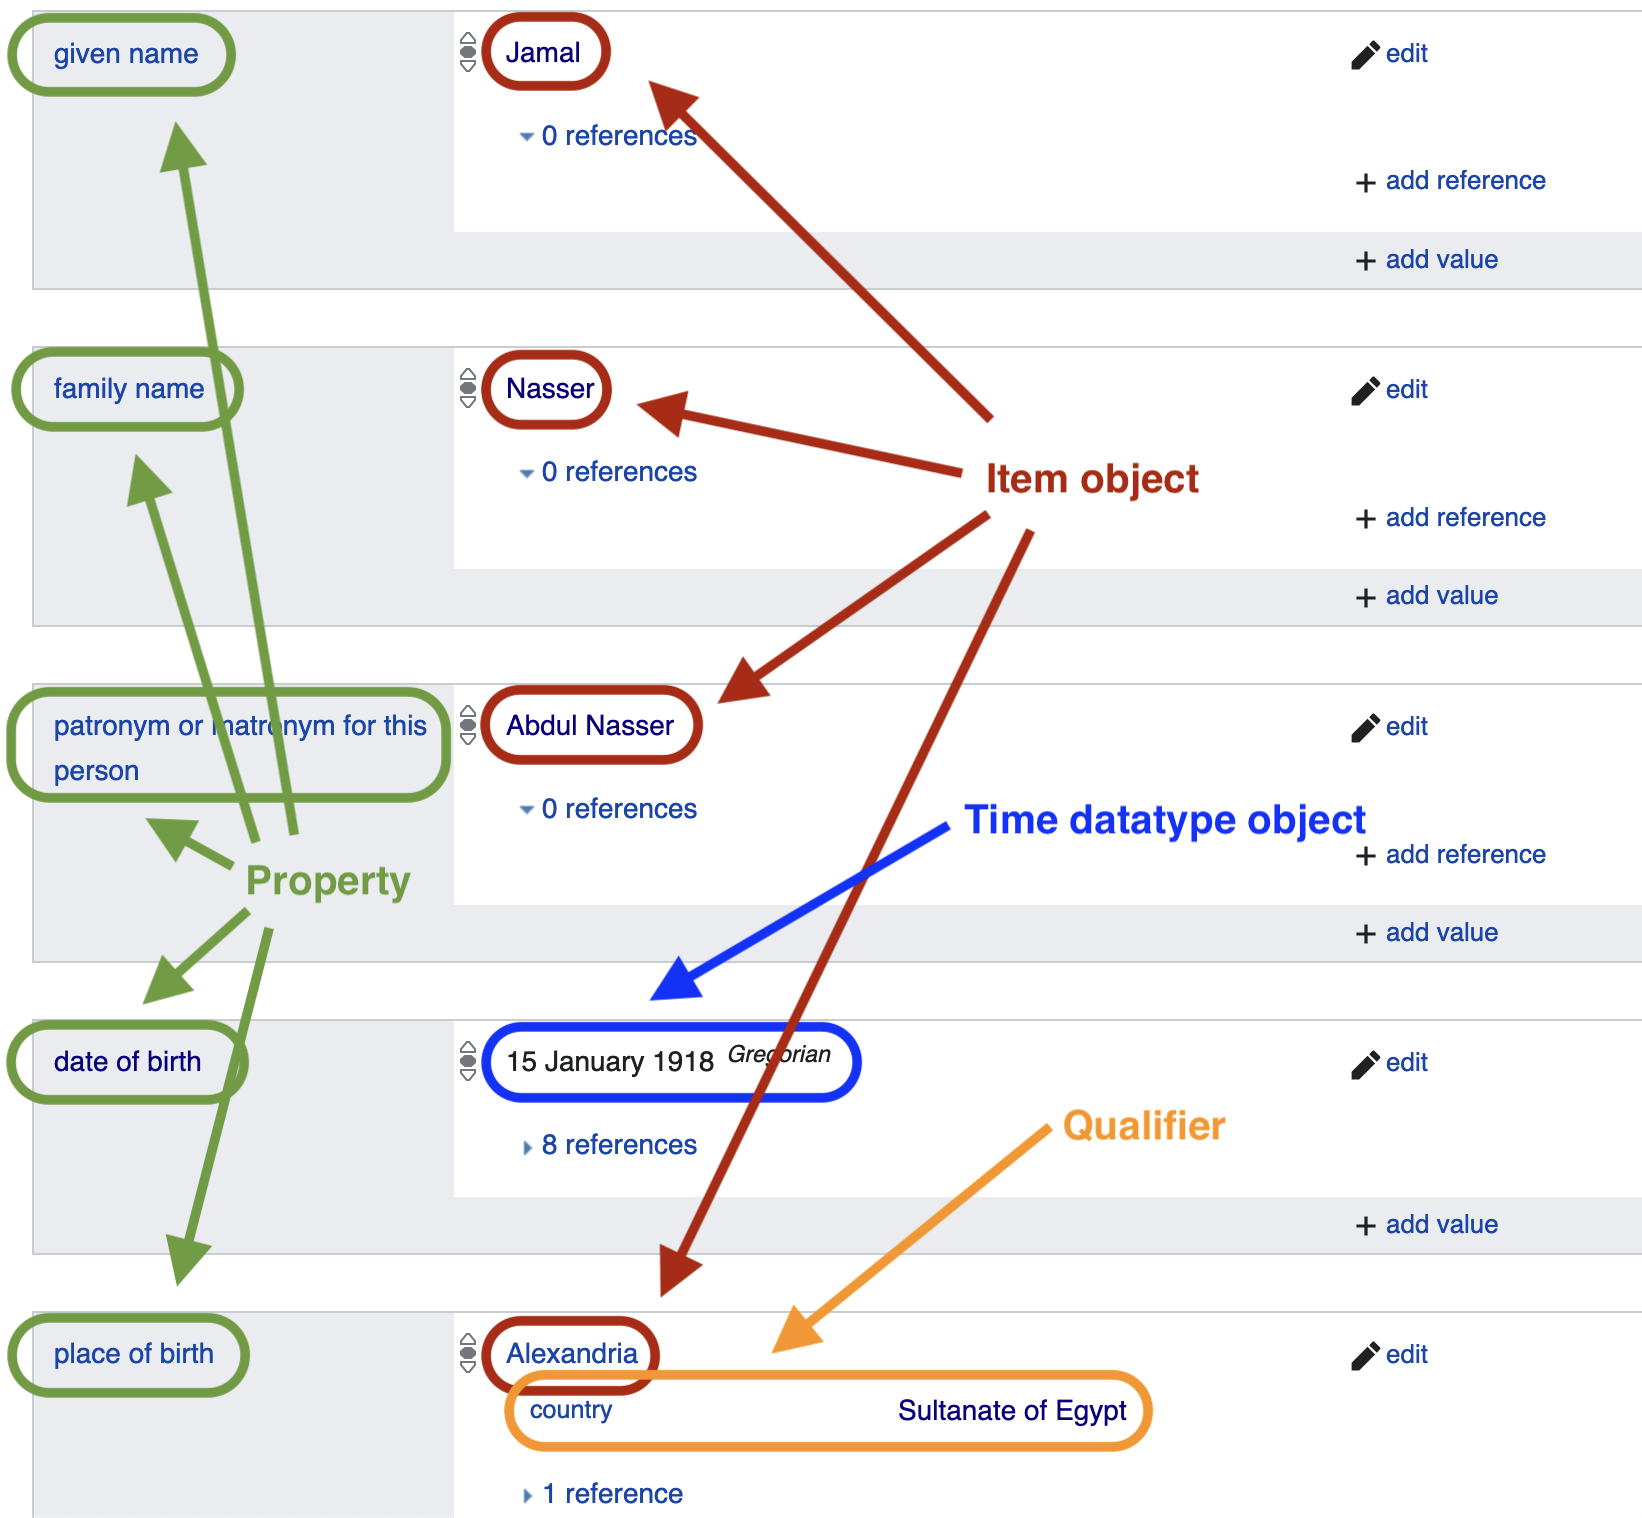
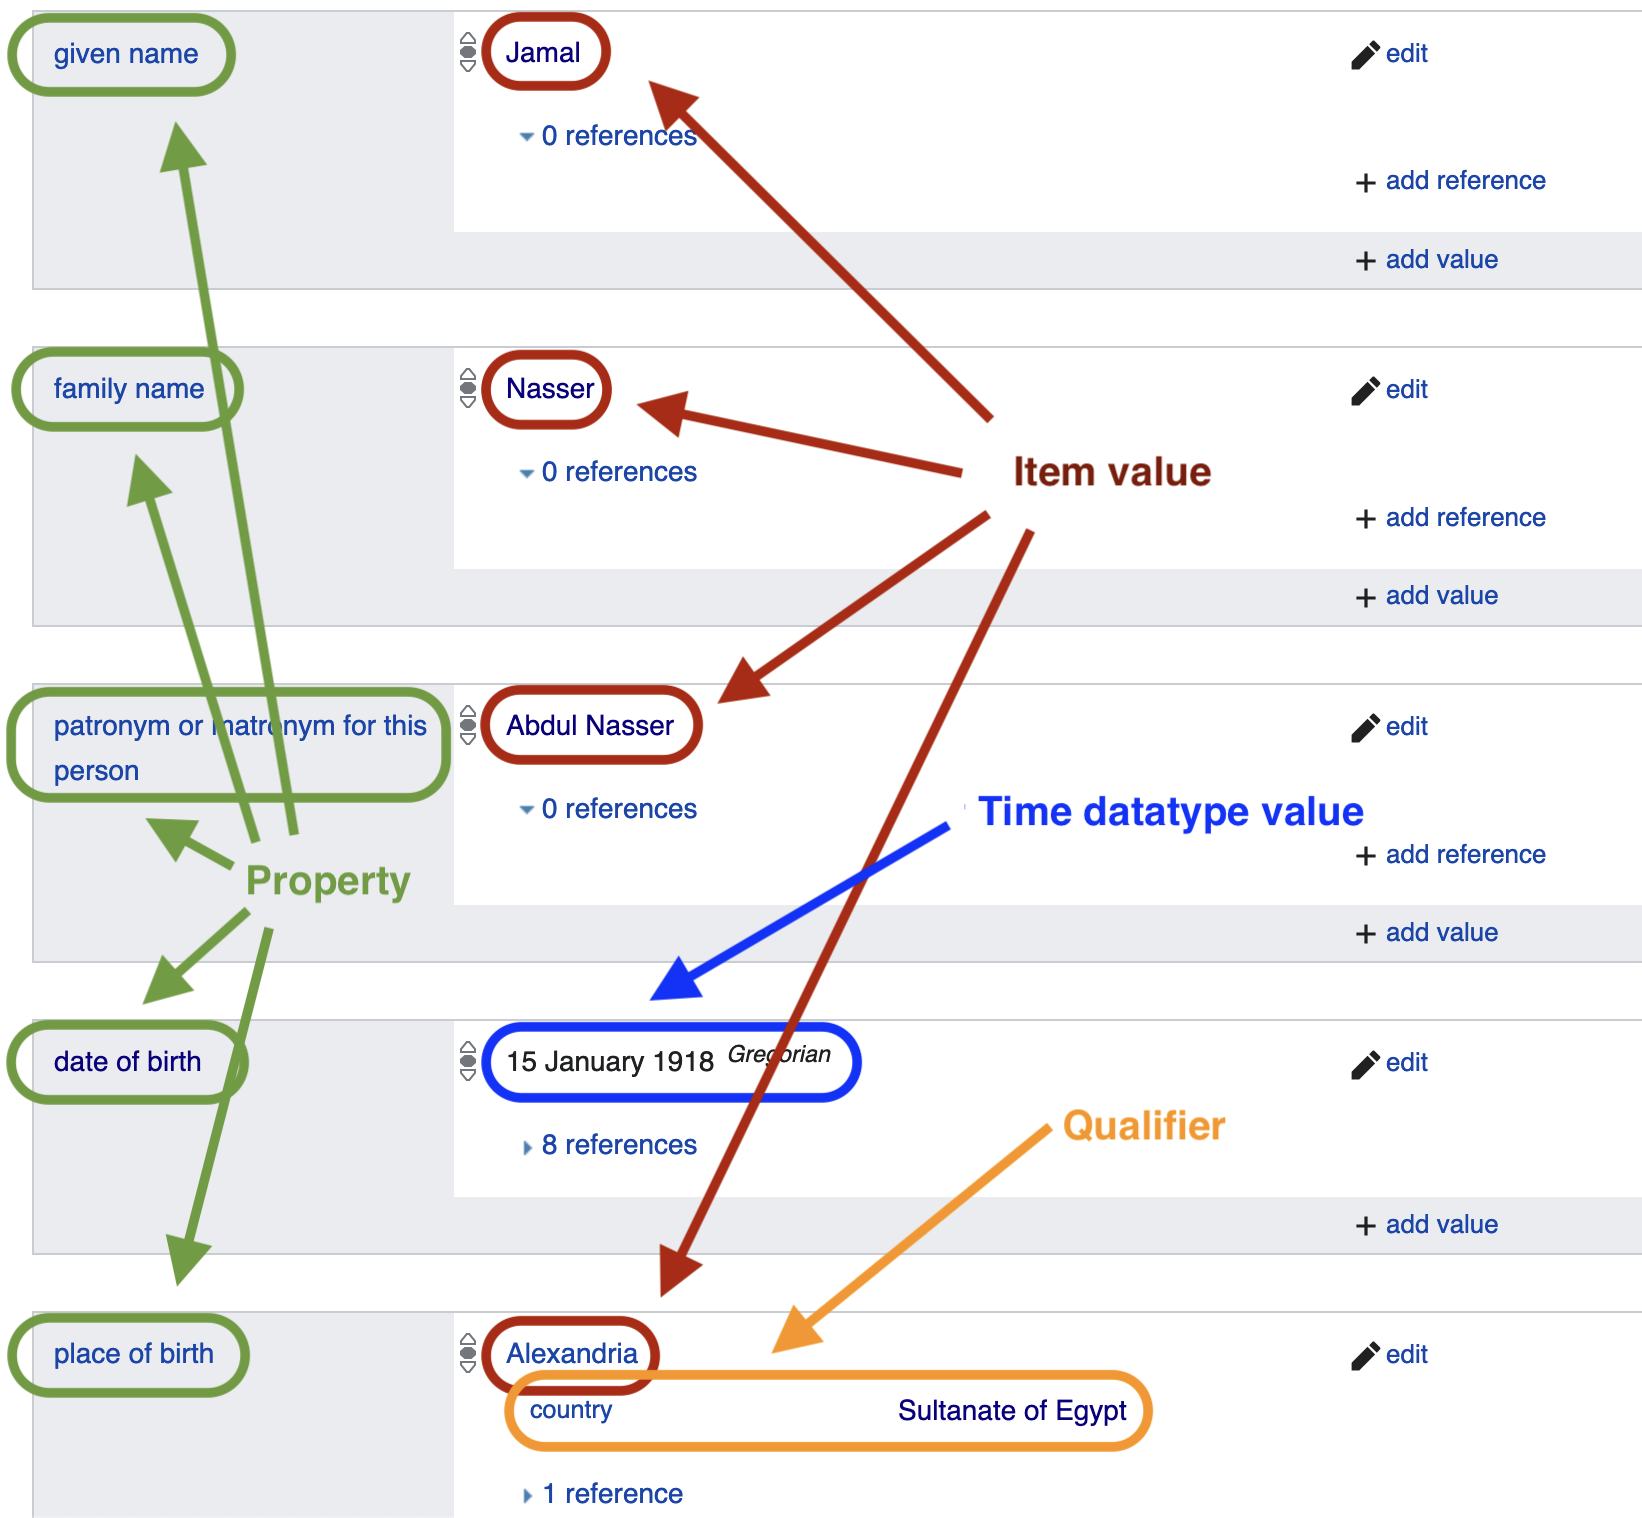
new lesson drafts

Changed region(s): [[0.5901, 0.5264, 0.8386, 0.5573], [0.5901, 0.2787, 0.7454, 0.3406]]

diff --git a/wikidata-for-historians/wikidata-for-historians.md b/wikidata-for-historians/wikidata-for-historians.md
@@ -44,7 +44,7 @@ Even further down, you'll find another section with the heading **Identifiers**.
 
 Most historians--particularly those with some background in postcolonial theory--might readily identify the value in distinguishing between the signifier and the signified. In the Wikidata knowledge base, the signfied are only ever numbers; everything else is a signifier. This distinction means that the relationships between items do not depend on arbitrary human semantic choices. Wikidata can use multiple terms for the same idea, and those terms can change, without breaking the database.
 
-Wikidata also uses P-numbers, which refer to **properties**. In the "Statements" section, you will note two columns. The first column (with a grey field) contains properties. The second column (with a white field) contains items or values that answer these properties (sometimes these are called "objects" of properties). This lesson is not the place to get bogged down in the complexities of data structures. Instead, employ a common sense reading of those properties that make sense to you.
+Wikidata also uses P-numbers, which refer to **properties**. In the "Statements" section, you will note two columns. The first column (with a grey field) contains properties. The second column (with a white field) contains values that answer these properties (sometimes these are called "objects" of properties). These values may be items, or dates, or strings, or other datatypes. This lesson is not the place to get bogged down in the [complexities of data models](https://www.wikidata.org/wiki/Wikidata:Data_model). Instead, as you begin to explore Wikidata, employ a common sense reading of those properties that make sense to you.
 
 ![Figure 3: Properties and objects in statements](statements-properties.png)
 
@@ -73,7 +73,7 @@ This incompleteness is a function of two features of the knowledge base. First, 
 
 However, we only have one reference for the date when he assumed the Prime Minister's office. That reference is to the [list of Egyptian Prime Ministers in English Wikipedia](https://en.wikipedia.org/wiki/List_of_prime_ministers_of_Egypt)–which could itself be scrutinized for accuracy and conpleteness. Generally speaking, at this point in its development, Wikidata's references are relatively poor in quality and quantity. However, in many cases, we can reasonably assume that factual information in Wikidata will typically be accurate for purposes of data exploration and hypothesis testing. Our historian's judgment will serve us well when we look at the evidence more closely.
 
-A second (and more interesting) reason for incomplete query results concerns the structure of knowledge that Wikidata produces, and this issue warrants a section of its own. 
+A second (and more interesting) reason for incomplete query results concerns the structure of knowledge that Wikidata produces. Briefly put, Wikidata must be queried using its own (often idiosyncratic) terms and categories. You must understand its taxonomies in order to use it effectively, and this issue warrants a section of its own. 
 
 ## Key vocabulary:
 - item
@@ -94,7 +94,7 @@ Keen-eyed observers will already detect the presence of a formal taxonomy here. 
 
 Confronted with this mass of examples, you might feel somewhat confused, both by particular instances and by the overall picture. This empirically-generated account is a long way from the synthetic statements of Wikipedia. Such ambiguous bodies of results embody the virtue and value of Wikidata for historians. It is not an automatic answer box. It is an elaborate logical structure giving precise answers to abstract questions about which there is no real consensus. Any serious user learn which taxonomies Wikidata already uses to describe their topics of interest. Users must also use their knowledge of context to mediate between the theoretical and the empirical. Fortunately, this is exactly what historians are trained to do.
 
-Let's run the age-of-first-taking-office query we used in the Abdel Nasser example above, [but use "head of government" instead of "head of state"](https://query.wikidata.org/#%23%20Age%20of%20heads%20of%20government%20upon%20taking%20power%2C%201950-1980%0ASELECT%20DISTINCT%20%3FheadOfGovt%20%3FheadOfGovtLabel%20%28MIN%28%3Fage%29%20as%20%3FageMin%29%20%3FcountryLabel%20%3FpositionLabel%0A%7B%0A%20%23%20find%20heads%20of%20state%20positions%0A%20hint%3AQuery%20hint%3Aoptimizer%20%22None%22.%0A%20%3Fposition%20wdt%3AP279%2a%20wd%3AQ2285706%20.%0A%0A%20%23%20sovereign%20states%20only%0A%20%3Fposition%20wdt%3AP1001%20%3Fcountry%20.%0A%20%3Fcountry%20wdt%3AP31%20wd%3AQ3624078%20.%0A%20%20%0A%20%23%20fetch%20names%20of%20officeholders%0A%20%3FheadOfGovt%20wdt%3AP39%20%3Fposition%20.%0A%0A%20%23%20birthdates%20of%20officeholders%0A%20%3FheadOfGovt%20wdt%3AP569%20%3Fdob.%20hint%3APrior%20hint%3ArangeSafe%20true.%20%0A%20%20%0A%20%23%20date%20of%20term%20start%0A%20%3FheadOfGovt%20p%3AP39%20%3Fstatement%20.%0A%20%3Fstatement%20ps%3AP39%20%3Fposition%20.%20%0A%20%3Fstatement%20pq%3AP580%20%3FtermStart.%20hint%3APrior%20hint%3ArangeSafe%20true.%0A%20%20%0A%20%23%201950-1980%20term%20start%20only%0A%20FILTER%28%221950-01-01%22%5E%5Exsd%3AdateTime%20%3C%3D%20%3FtermStart%20%26%26%20%3FtermStart%20%3C%20%221980-01-01%22%5E%5Exsd%3AdateTime%29%0A%20%0A%20%23%20calcuate%20age%20%0A%20BIND%28YEAR%28%3FtermStart%29-YEAR%28%3Fdob%29%20as%20%3Fage%29%0A%20SERVICE%20wikibase%3Alabel%20%7B%20bd%3AserviceParam%20wikibase%3Alanguage%20%22en%22%20%7D%0A%7D%0AGROUP%20BY%20%3FheadOfGovt%20%3FheadOfGovtLabel%20%3FcountryLabel%20%3FpositionLabel%0AORDER%20BY%20DESC%28%3FageMin%29). This query returns Abdel Nasser's age when he became prime minister rather than president. But this query accurately captures other leaders who are not returned with the "head of state" query. For instance, it returns prime ministers in states (like India?) where the president is largely ceremonial. But it also includes some mayors.
+Let's run the age-of-first-taking-office query we used in the Abdel Nasser example above, [but use "head of government" instead of "head of state"](https://query.wikidata.org/#%23%20Age%20of%20heads%20of%20government%20upon%20taking%20power%2C%201950-1980%0ASELECT%20DISTINCT%20%3FheadOfGovt%20%3FheadOfGovtLabel%20%28MIN%28%3Fage%29%20as%20%3FageMin%29%20%3FcountryLabel%20%3FpositionLabel%0A%7B%0A%20%23%20find%20heads%20of%20state%20positions%0A%20hint%3AQuery%20hint%3Aoptimizer%20%22None%22.%0A%20%3Fposition%20wdt%3AP279%2a%20wd%3AQ2285706%20.%0A%0A%20%23%20sovereign%20states%20only%0A%20%3Fposition%20wdt%3AP1001%20%3Fcountry%20.%0A%20%3Fcountry%20wdt%3AP31%20wd%3AQ3624078%20.%0A%20%20%0A%20%23%20fetch%20names%20of%20officeholders%0A%20%3FheadOfGovt%20wdt%3AP39%20%3Fposition%20.%0A%0A%20%23%20birthdates%20of%20officeholders%0A%20%3FheadOfGovt%20wdt%3AP569%20%3Fdob.%20hint%3APrior%20hint%3ArangeSafe%20true.%20%0A%20%20%0A%20%23%20date%20of%20term%20start%0A%20%3FheadOfGovt%20p%3AP39%20%3Fstatement%20.%0A%20%3Fstatement%20ps%3AP39%20%3Fposition%20.%20%0A%20%3Fstatement%20pq%3AP580%20%3FtermStart.%20hint%3APrior%20hint%3ArangeSafe%20true.%0A%20%20%0A%20%23%201950-1980%20term%20start%20only%0A%20FILTER%28%221950-01-01%22%5E%5Exsd%3AdateTime%20%3C%3D%20%3FtermStart%20%26%26%20%3FtermStart%20%3C%20%221980-01-01%22%5E%5Exsd%3AdateTime%29%0A%20%0A%20%23%20calcuate%20age%20%0A%20BIND%28YEAR%28%3FtermStart%29-YEAR%28%3Fdob%29%20as%20%3Fage%29%0A%20SERVICE%20wikibase%3Alabel%20%7B%20bd%3AserviceParam%20wikibase%3Alanguage%20%22en%22%20%7D%0A%7D%0AGROUP%20BY%20%3FheadOfGovt%20%3FheadOfGovtLabel%20%3FcountryLabel%20%3FpositionLabel%0AORDER%20BY%20DESC%28%3FageMin%29). This query returns Abdel Nasser's age when he became prime minister rather than president. But this query accurately captures other leaders who are not returned with the "head of state" query. For instance, it returns prime ministers in states (like India?) where the president is largely ceremonial. But it also includes some mayors. In sum, different forms of a similar question yield valid but different, incomplete, and imperfect answers. 
 
 Historians tend to be sceptical of taxonomic schemes, with good reason. But explicit taxonomies can do great work for us as a means to discover and explore information. No doubt you will find (what you consider to be) errors in this taxonomy. You can certainly "correct" those errors–Wikidata is open–but don't be too hasty. The taxonomies already existing in Wikidata are organic and collectively produced, and they are not exclusive. There are ways to work around the parts you don't agree with–don't change the knowledge base itself until you have learned how to do this.
 

diff --git a/batch-editing-wikidata/batch-editing-wikidata.md b/batch-editing-wikidata/batch-editing-wikidata.md
@@ -1,0 +1,101 @@
+---
+title: Batch editing in Wikidata  
+collection: lessons  
+layout: lesson  
+authors:
+- Will Hanley
+---
+
+{% include toc.html %}
+
+# Summary
+
+Getting 
+
+# What should you upload?
+
+Notability
+
+Referencing
+
+# Openrefine
+
+
+
+# First Level Heading
+## Second Level Heading
+### Third Level Heading
+#### Fourth Level Heading
+
+
+### Font Formatting
+**bold text**
+*italic text*
+`reserved words` (eg "for loop", or "myData.csv")
+
+### Links
+
+Create [a link to *Programming Historian*](/) using the format in this sentence. Ensure linked phrases are semantically meaningful. Do not link terms that are meaningful only to sighted users such as "click here".
+
+### Inserting Images:
+
+Copy this short-code to insert an image. Replace words in all caps with your image information (eg, Figure1.jpg). Captions should include sequential image numbering (eg "Figure 1: ..."). 
+
+{% include figure.html filename="IMAGE-FILENAME" caption="CAPTION TO IMAGE" %}
+
+### Alerts and Warnings
+
+If you want to include an aside or a warning to readers, you can set it apart from the main text:
+
+<div class="alert alert-warning">
+ Be sure that you follow directions carefully!
+</div>
+
+It will appear in a coloured box and can be useful for drawing attention to particular warnings.
+
+### A Sample Unordered List
+
+* Here is an item
+* Here is another item
+* Here is the final item
+
+### A Sample Ordered List
+
+1. Here is an item
+2. Here is another item
+3. Here is the final item
+
+### A Sample Table
+
+<div class="table-wrapper" markdown="block">
+
+| Heading 1 | Heading 2 | Heading 3 |
+| --------- | --------- | --------- |
+| Row 1, column 1 | Row 1, column 2 | Row 1, column 3|
+| Row 2, column 1 | Row 2, column 2 | Row 2, column 3|
+| Row 3, column 1 | Row 3, column 2 | Row 3, column 3|
+</div>
+Table 1: This table contains...
+
+### Referencing
+
+*	Links rather than endnotes may be appropriate in most cases.
+*	Ensure linked phrases are semantically meaningful. Do not link terms that are meaningful only to sighted users such as "click here".
+*	All traditionally published and academic literature should be end-noted rather than linked.
+*	If you are writing an "analysis" tutorial, you must refer to published scholarly literature.
+*	Endnote superscripts should be outside the final punctuation like this.[^1] Not inside like this[^1].
+*	Use the "Notes and Bibliography" system found in the [The Chicago Manual of Style, 17th Edition](https://www.chicagomanualofstyle.org/tools_citationguide/citation-guide-1.html) for endnotes.
+
+#### An End Note:
+
+This is some text.[^1]
+This is some more text.[^2]
+
+##### Endnotes
+[^1]: Properly formatted citation using Chicago Manual of Style
+[^2]: Properly formatted citation using Chicago Manual of Style
+
+
+# Further Questions?
+
+Your assigned editor or the managing editor would be happy to answer any questions you may have.

diff --git a/openrefine-wikidata/openrefine-wikidata.md b/openrefine-wikidata/openrefine-wikidata.md
@@ -1,0 +1,52 @@
+---
+title: Enriching data using Openrefine and Wikidata  
+collection: lessons  
+layout: lesson  
+authors:
+- Will Hanley
+---
+
+{% include toc.html %}
+
+# Summary
+
+ 
+
+
+### Links
+
+Create [a link to *Programming Historian*](/) using the format in this sentence. Ensure linked phrases are semantically meaningful. Do not link terms that are meaningful only to sighted users such as "click here".
+
+### Inserting Images:
+
+Copy this short-code to insert an image. Replace words in all caps with your image information (eg, Figure1.jpg). Captions should include sequential image numbering (eg "Figure 1: ..."). 
+
+{% include figure.html filename="IMAGE-FILENAME" caption="CAPTION TO IMAGE" %}
+
+### Alerts and Warnings
+
+If you want to include an aside or a warning to readers, you can set it apart from the main text:
+
+<div class="alert alert-warning">
+ Be sure that you follow directions carefully!
+</div>
+
+It will appear in a coloured box and can be useful for drawing attention to particular warnings.
+
+
+### A Sample Table
+
+<div class="table-wrapper" markdown="block">
+
+| Heading 1 | Heading 2 | Heading 3 |
+| --------- | --------- | --------- |
+| Row 1, column 1 | Row 1, column 2 | Row 1, column 3|
+| Row 2, column 1 | Row 2, column 2 | Row 2, column 3|
+| Row 3, column 1 | Row 3, column 2 | Row 3, column 3|
+</div>
+Table 1: This table contains...
+
+
+
+##### Endnotes
+[^1]: 
